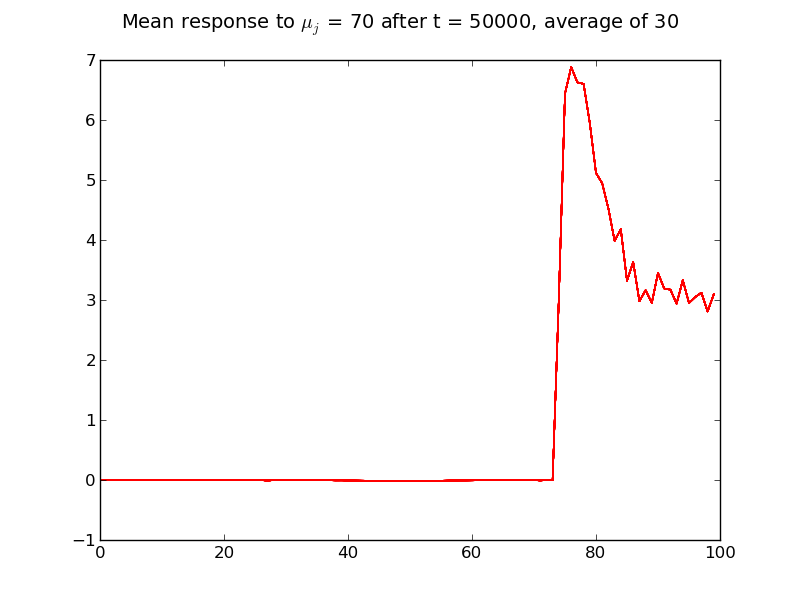
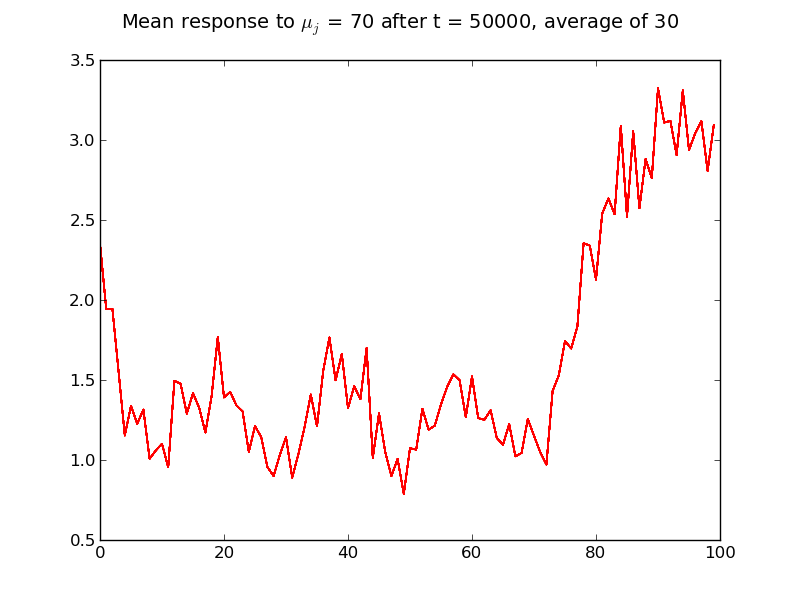
changes

diff --git a/miniproject1/ex2/bcm.py b/miniproject1/ex2/bcm.py
@@ -1,5 +1,6 @@
 import math 
 import random 
+import numpy as np
 random.seed(0)
 
 NUM_NEURONS = 100
@@ -27,40 +28,40 @@ for experiment in range(NUM_EXPTS): #simulate the paradigm using many different 
 	tmp_w0 = w_0
 	for j in range(MU_RANGE):
 		w_0 = tmp_w0 # use the same weights for all inputs
-		f = open("weights%d_t%d_expt%d"%(j ,TIME_LIMIT, experiment),'wt')
+		#print "init w_0: ",w_0
+		f = open("weights%d_expt%d_t%d"%(j , experiment,TIME_LIMIT),'wt')
 		theta_0 = [2.5 for i in range(MU_RANGE)] 
 		#print theta_0
 		mu.append((20.0*j)+10.0) # append a new input pattern to train the neural network
 		x = [constant*math.exp(-(float(i+1)-mu[j])**2/sigma**2) for i in range(NUM_NEURONS)]
 		#print x
 		y.append(sum([wi*xi for wi,xi in zip(w_0,x)]))
+		#print "init y: ",y
 		y2.append(y[j]**2)
-		
-		for neuron in range(NUM_NEURONS):
-			
-			dw =  "inf"
-			dtheta = "inf"
 
-			print x
-			for t in range(TIME_LIMIT): # what is convergence?
+		for t in range(TIME_LIMIT):
+			#print "time: ",t			
+			for neuron in range(NUM_NEURONS):
+			#	print "neuron:",neuron
 				dtheta=  (1.0/tau)*(y2[j]-theta_0[j])
 				dw = eta*x[neuron]*(y2[j]-(theta_0[j]*y[j]))
-				#print "delta_theta: ",dtheta, " delta_w: " , dw
+			#	print "delta_theta: ",dtheta, " delta_w: " , dw
 				w_0[neuron] +=  dw 
 				if w_0[neuron] < 0:
-					print "negative weight"
-					break
+					w_0[neuron] = 0.0
 				theta_0[j] += dtheta
 				 
-				#print "w0:",w_0[neuron],"x:",x
+			#	print "w0:",w_0[neuron],"theta0:",theta_0[j],"x:",x
 				if (t % 1000) == 0:
 					print "time: ",t	
-			f.write(str("%lf\n"%w_0[neuron]))
-		f.close()	
-		y[j] = sum([wi*xi for wi,xi in zip(w_0,x)])
-		y2[j] = y[j]**2
 	
+			y[j] = sum([wi*xi for wi,xi in zip(w_0,x)])
+			#print "after all neurons updated by dt, y: ",y		
+			y2[j] = y[j]**2
 
+		for i in range(NUM_NEURONS):
+			f.write(str("%lf\n"%w_0[i]))
+		f.close()
 '''	#f_weights = open("data/weights_expt%d"%experiment,'wt')
 	#f_thetas = open("data/theta_expt%d"%experiment,'wt')
 	#f_outputs = open("data/outputs_expt%d"%experiment,'wt') '''

diff --git a/miniproject1/report/answers1.tex b/miniproject1/report/answers1.tex
@@ -1,11 +1,32 @@
 \section{Scalability}
 
-\subsection*{Question (Paper \& Pencil)}     % subsection 1.1
+\subsection{Question (Paper \& Pencil)}     % subsection 1.1
 
-%\subsubsection{Part 1}       % subsubsection 1.1.1
+\subsubsection{Constant input $x_o$ and threshold $\theta^*$}       % subsubsection 1.1.1
 In the case of constant input and constant threshold ($x(t)=x_o$ and $\theta(t) = \theta^*$), the BCM learning rule has the form: 
 \begin{equation}
 \frac{d\omega_i}{dt} = \eta x_i(y^2-y\theta)= Aw^2-Bw
 \end{equation}
 where A and B are constants. Here, the main problem of this learning rule would be that the weights grow without bound, so they can not converge to stable values.  
+\subsubsection{Stability of fixed points}
+For the coupled differential equations: 
 
+\begin{eqnarray}
+\tau \dot \theta_M &=&  -\theta_M + y^p \\
+\dot \omega &=& \eta x (y^2-y\theta) \\
+\end{eqnarray}
+
+we assume $\tau << \eta^{-1}$, so we can assume that $\theta$ converges much faster than $\omega$. At a fixed point for p=0, we would have: 
+
+\begin{eqnarray}
+\tau \dot \theta_M &=&  -\theta_M + y^p \\
+0 &=& -\theta_M + y^p \\
+\theta_M &=& 1
+\end{eqnarray}
+and 
+\begin{eqnarray}
+\dot \omega &=& \eta x (y^2-y) \\
+\dot \omega &=& \eta x^2 \omega (\omega x- 1) 
+\end{eqnarray}
+
+so the fixed points are at $\omega = 0$ and $\omega = 1/x$. 

diff --git a/miniproject1/ex2/plot_fixedMu_allExpts.py b/miniproject1/ex2/plot_fixedMu_allExpts.py
@@ -7,7 +7,7 @@ NUM_EXPTS = 30
 NUM_INPUTS = 5 # num of input patterns
 
 for oneInput in range(NUM_INPUTS):
-	data = [[float(line)  for line in open("weights%d_t%d_expt%d" %(oneInput ,TIME_LIMIT, i))] for i in range(NUM_EXPTS)] 
+	data = [[float(line)  for line in open("weights%d_expt%d_t%d" %(oneInput , i,TIME_LIMIT))] for i in range(NUM_EXPTS)] 
 	#load data in data[expt][neuron] format for given sim length
 	colors = ['red', 'green', 'blue', 'yellow',  'black']
 	fig = pylab.figure()

diff --git a/miniproject1/ex2/timer.py b/miniproject1/ex2/timer.py
@@ -1,0 +1,7 @@
+import time
+print time.time()
+
+for i in range(5):
+	print i,
+
+print time.time()
